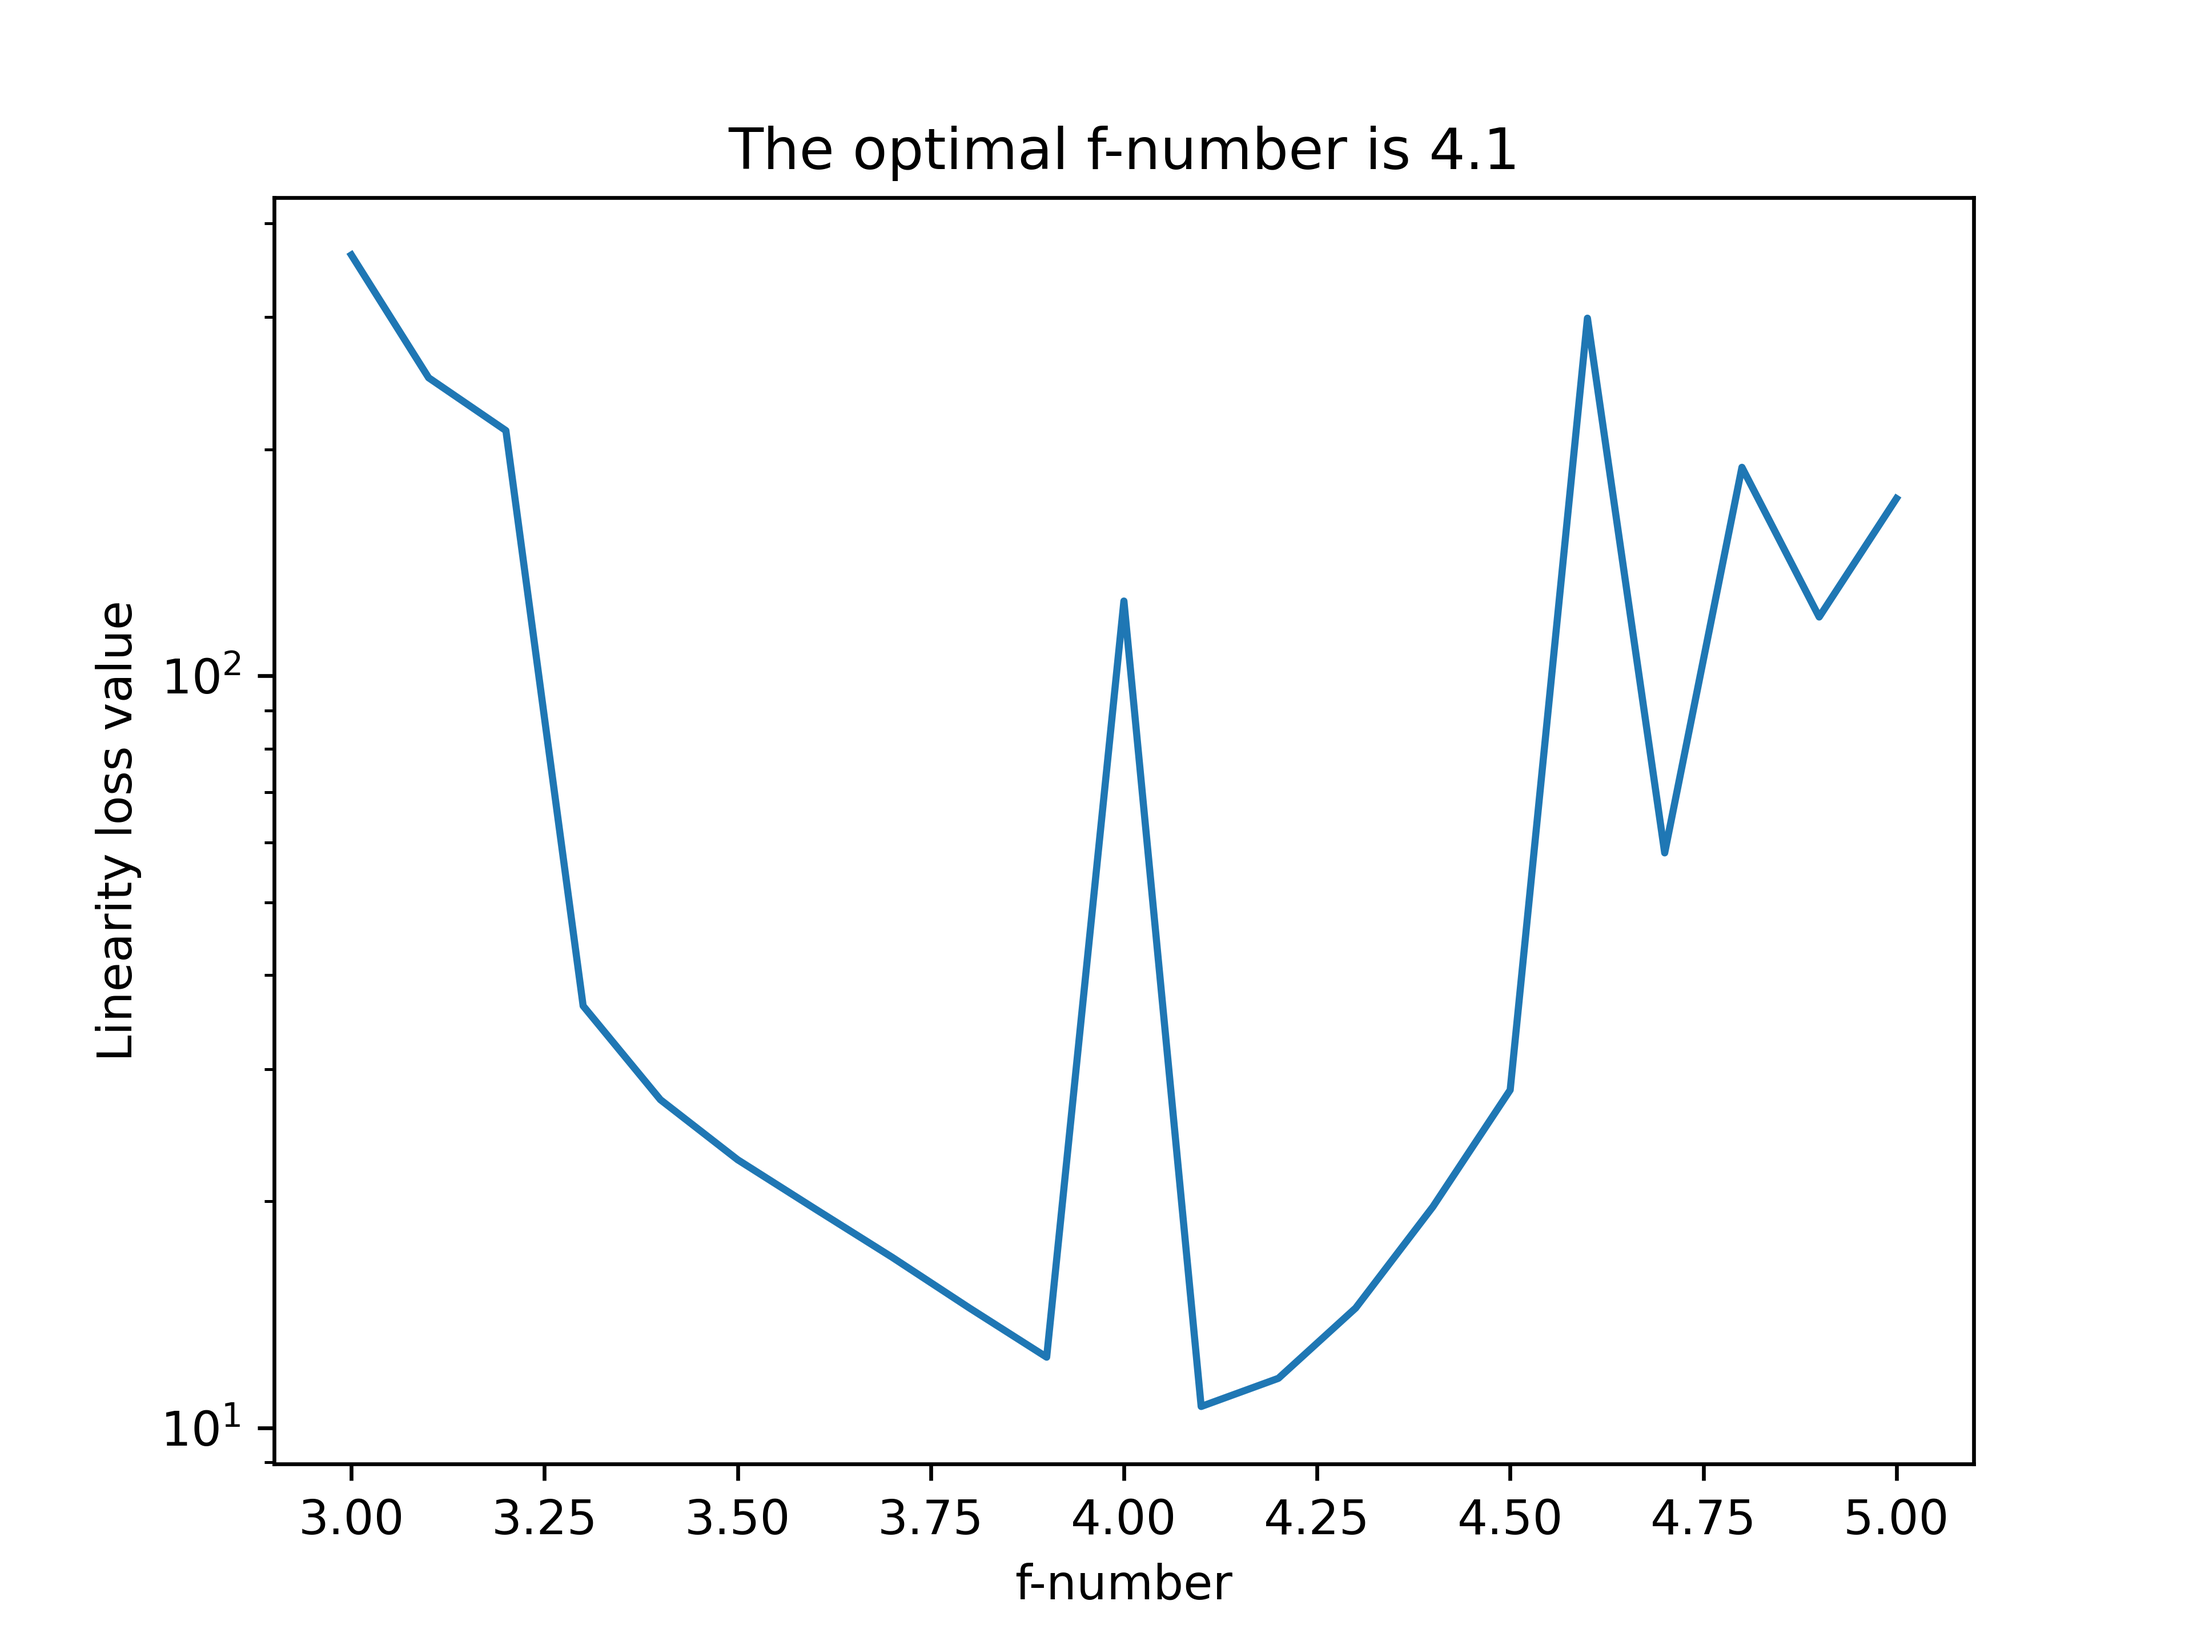
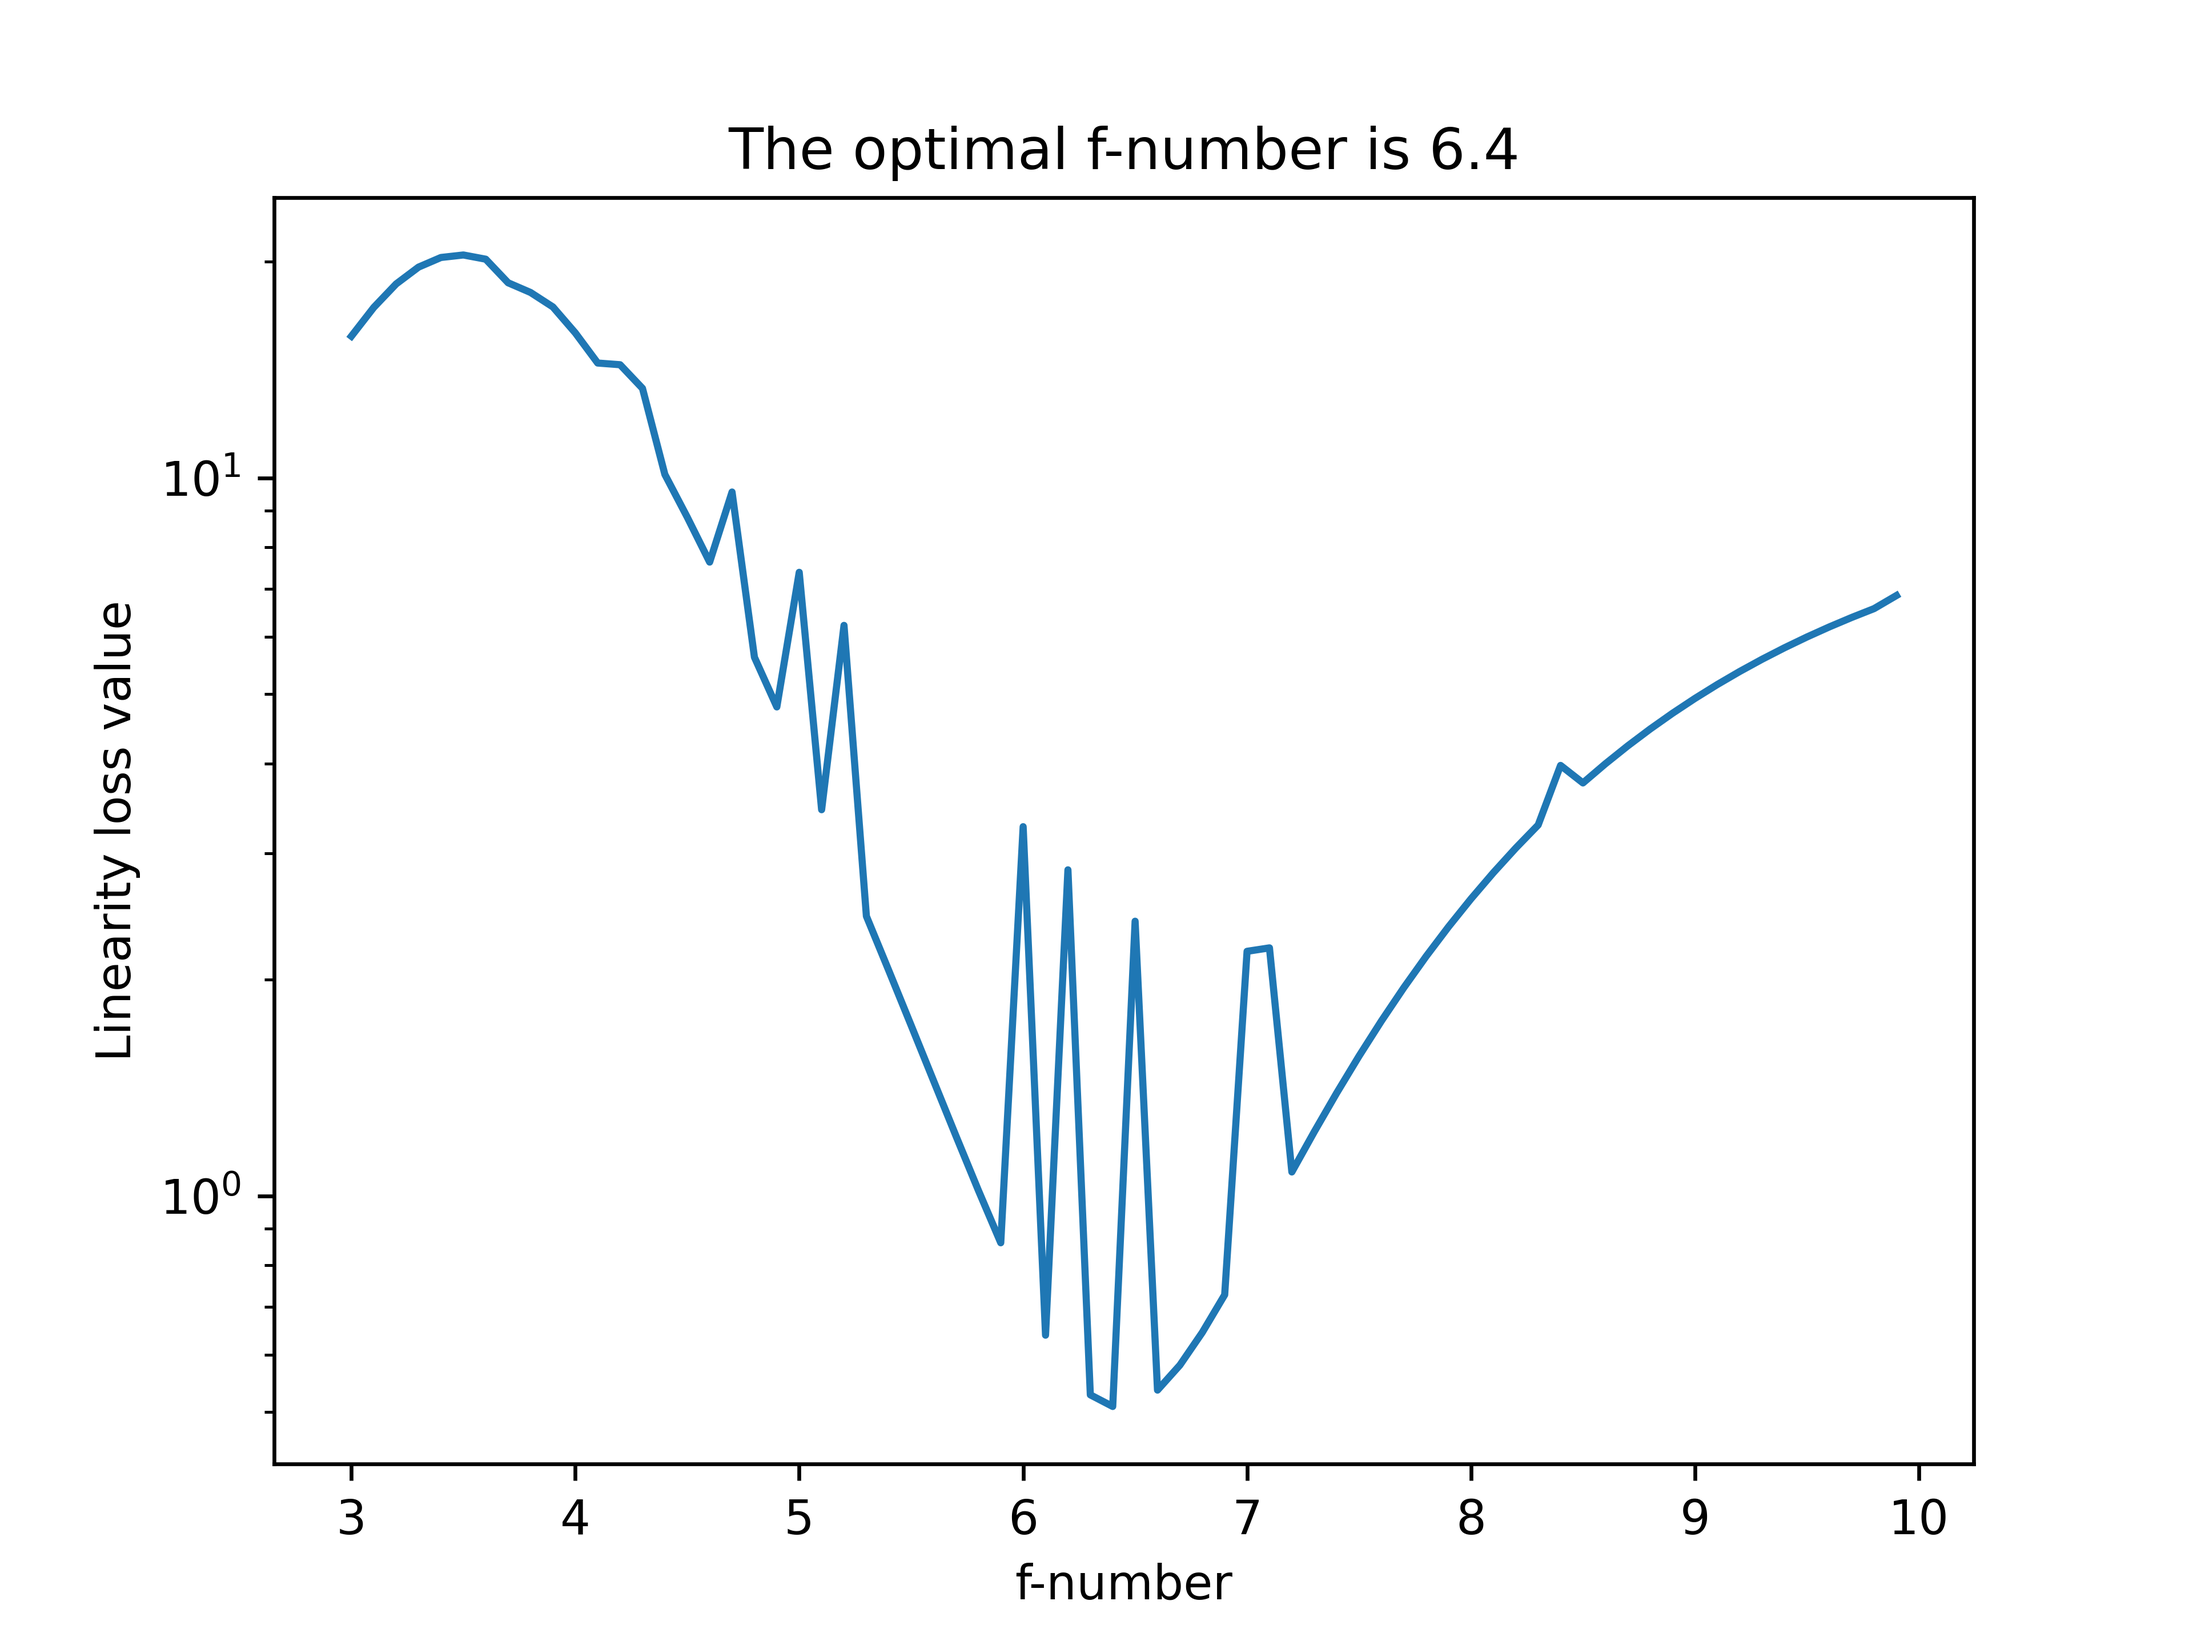
getting rid of the target/recovered fnumber plot

diff --git a/scripts_py/sim/fnumber_tests.py b/scripts_py/sim/fnumber_tests.py
@@ -1,22 +1,22 @@
 # %%
+from os.path import join
 import numpy as np
 from matplotlib import pyplot as plt
 from matplotlib import animation
 from IPython.display import HTML
 import hcipy as hc
 from hcipy import imshow_field
-from scipy.optimize import minimize
-from photonics.simulations.lantern_optics import LanternOptics
+from photonics import Optics, LanternOptics, make_command_matrix, imshow_psf
 from itertools import product, repeat
-from photonics import PROJECT_ROOT
+from photonics import PROJECT_ROOT, zernike_names
 from tqdm import tqdm
 # %%
-lo = LanternOptics(f_number=10)
+optics = Optics(lantern_fnumber=6.5)
+lo = LanternOptics(optics)
+nzern = lo.nmodes
 # %%
-lo.setup_hcipy(f_number=6.5)
-# %%
-lo.make_command_matrix(nzern=9)
-amplitudes, linearity_responses = lo.make_linearity(nzern=9, lim=1.0, step=0.05)
+make_command_matrix(optics.deformable_mirror, lo, optics.wf)
+amplitudes, linearity_responses = lo.make_linearity(optics, lim=1.0, step=0.05)
 # %%
 lo.show_linearity(amplitudes, linearity_responses)
 # %%
@@ -26,13 +26,13 @@ def linearity_loss(amplitudes, linearity_responses):
 
 # %%
 linearity_loss(amplitudes, linearity_responses)
+
 # %%
-def fnumber_objective(f, nzern=9):
-    print(f)
-    lo.setup_hcipy(f_number=f)
-    lo.make_intcmd(nzern=nzern)
-    loss = linearity_loss(*lo.make_linearity(nzern=nzern, lim=0.5, step=0.1))
-    print(loss)
+def fnumber_objective(f):
+    optics = Optics(lantern_fnumber=f)
+    lo.focal_propagator = optics.focal_propagator
+    make_command_matrix(optics.deformable_mirror, lo, optics.wf)
+    loss = linearity_loss(*lo.make_linearity(optics, lim=0.5, step=0.1))
     return loss
 # %%
 def norm(a, b):
@@ -43,8 +43,9 @@ def corr(a, b):
 f_to_test = np.arange(0.1, 20.1, 0.1)
 corrs = []
 for f in tqdm(f_to_test):
-    lo.setup_hcipy(f_number=f)
-    psf_on_input = np.array(lo.focal_wf_ref.electric_field.shaped[lo.input_footprint])
+    optics = Optics(lantern_fnumber=f)
+    lo.focal_propagator = optics.focal_propagator
+    psf_on_input = np.array(optics.im_ref.electric_field.shaped[lo.input_footprint])
     projected = lo.outputs.T @ (lo.projector @ psf_on_input)
     corrs.append(corr(psf_on_input, projected))
 
@@ -56,34 +57,36 @@ plt.gca().invert_yaxis()
 plt.yticks([1e0, 1e-1, 1e-2, 1e-3], [1-1e0, 1-1e-1, 1-1e-2, 1-1e-3])
 plt.xlabel("f-number")
 plt.ylabel("Coupling efficiency")
-plt.savefig(PROJECT_ROOT + "/figures/coupling_efficiency.png", dpi=600)
+plt.savefig(join(PROJECT_ROOT, "figures", "coupling_efficiency.png", dpi=600))
 
 # %%
-f_shortlist = np.arange(3, 5.1, 0.1)
+f_shortlist = np.arange(3.0, 10.0, 0.1)
 # %%
-linearity_arrays = []
-linearity_loss_vals = []
+linearity_arrays = {}
+linearity_loss_vals = {}
 # %%
-for f in f_shortlist:
-    print(f)
-    lo.setup_hcipy(f_number=f)
-    lo.make_intcmd(nzern=18)
-    amplitudes, linearity_arr = lo.make_linearity(nzern=18, lim=0.5, step=0.1)
-    linearity_arrays.append(linearity_arr)
-    linearity_loss_vals.append(linearity_loss(amplitudes, linearity_arr))
+for f in tqdm(f_shortlist):
+    optics = Optics(lantern_fnumber=f)
+    lo.focal_propagator = optics.focal_propagator
+    make_command_matrix(optics.deformable_mirror, lo, optics.wf)
+    amplitudes, linearity_arr = lo.make_linearity(optics, lim=0.5, step=0.1)
+    loss = linearity_loss(amplitudes, linearity_arr)
+    linearity_arrays[f] = linearity_arr
+    linearity_loss_vals[f] = linearity_loss(amplitudes, linearity_arr)
     
 # %%
-plt.semilogy(f_shortlist, linearity_loss_vals)
+linearity_losses_list = [v for (_, v) in sorted(linearity_loss_vals.items())]
+optimal_f = min(linearity_loss_vals, key=linearity_loss_vals.get)
+plt.semilogy(f_shortlist, linearity_losses_list)
 plt.xlabel("f-number")
 plt.ylabel("Linearity loss value")
-plt.title(f"The optimal f-number is {f_shortlist[np.argmin(linearity_loss_vals)]:.1f}")
-plt.savefig(PROJECT_ROOT + "/figures/optimal_f.png", dpi=600)
+plt.title(f"The optimal f-number is {optimal_f:.1f}")
+plt.savefig(join(PROJECT_ROOT, "figures", "optimal_f.png"), dpi=600)
 # %%
-nzern = 18 # linearity_arrays[0].shape[0]
-fig, axs = plt.subplots(int(np.ceil(nzern // 3)), 3, sharex=True, sharey=True, figsize=(9, 18))
+fig, axs = plt.subplots(int(np.ceil(nzern // 3)), 3, sharex=True, sharey=True, figsize=(9, 9))
 plt.suptitle("Photonic lantern linearity curves (rad)")
-linearity_arrays_cr = np.array(linearity_arrays)[np.argsort(f_shortlist)]
-f_to_test_cr = np.sort(f_shortlist)
+linearity_arrays_cr = [v for (_, v) in sorted(linearity_arrays.items())]
+f_to_test_cr = sorted(linearity_arrays.keys())
 def rescaled(x, s):
     return ((x - np.min(x)) / (np.max(x) - np.min(x))) * s + (1 - s) / 2
 
@@ -91,14 +94,13 @@ for i in range(nzern):
     r, c = i // 3, i % 3
     axs[r][c].set_prop_cycle(plt.cycler('color', plt.cm.magma(rescaled(f_to_test_cr, 0.6))))
     axs[r][c].set_ylim([min(amplitudes), max(amplitudes)])
-    axs[r][c].title.set_text(f"Z{i+1}")
+    axs[r][c].title.set_text(zernike_names[i])
     axs[r][c].plot(amplitudes, amplitudes, '--k')
     for (j,f) in enumerate(f_to_test_cr):
-        axs[r][c].plot(amplitudes, linearity_arrays_cr[j][i,:,i], label=(f"f={f:.1f}" if j % 1 == 0 else None))
+        axs[r][c].plot(amplitudes, linearity_arrays_cr[j][i,:,i], label=(f"f={f:.1f}" if j % 10 == 0 else None), alpha=0.4)
 plt.legend(bbox_to_anchor=(1.04, 0.8), loc="lower left")
-plt.savefig(PROJECT_ROOT + f"/figures/linearity_fsweep_z{nzern}_3_5.png", dpi=600)
+plt.savefig(join(PROJECT_ROOT, "figures", f"linearity_fsweep_z{nzern}_3_5.png"), dpi=600)
 plt.show()
-
 # %%
 def psf_entrance_scanning(f_number):
     lo.setup_hcipy(f_number=f_number)
@@ -153,4 +155,91 @@ for fv in [4, 6.5, 9]:
     lo.setup_hcipy(f_number=fv)
     linearity_array = linearity_arrays[idx]
     lo.show_linearity(amplitudes, linearity_array)
+# %%
+
+
+# %%
+fnumbers = np.arange(3.5, 12.1, 0.1)
+injected_idx = 4
+injected_amp = 0.5
+optics = Optics(lantern_fnumber=12.0)
+lantern_mask = np.array(np.ones_like(optics.im_ref.intensity.shaped)) * 1e-10
+lantern_mask[lo.input_footprint] = 1.0
+lo.focal_propagator = optics.focal_propagator
+optics.deformable_mirror.flatten()
+optics.deformable_mirror.actuators[injected_idx] = injected_amp * optics.wl / (4 * np.pi)
+injected_pupil = optics.deformable_mirror.forward(optics.wf)
+injected_psf = optics.focal_propagator(injected_pupil)
+recovered_zernikes = lo.command_matrix.dot(lo.readout(injected_pupil) - lo.image_ref)
+optics.deformable_mirror.actuators[:nzern] = recovered_zernikes
+recovered_pupil = optics.deformable_mirror.forward(optics.wf)
+recovered_psf = optics.focal_propagator(recovered_pupil)
+fig, axs = plt.subplots(2, 2, figsize=(15, 5))
+im0 = axs[0][0].imshow(
+    np.log10(injected_psf.intensity.shaped / np.max(injected_psf.intensity))[219:293, 219:293],
+    vmin=-4
+)
+axs[0][0].set_xticks([])
+axs[0][0].set_yticks([])
+axs[0][0].set_title("Injected PSF")
+injected_to_plot = np.log10((injected_psf.intensity.shaped * lantern_mask) / np.max(injected_psf.intensity))[219:293, 219:293]
+im1 = axs[0][1].imshow(
+    injected_to_plot,
+    vmin=-4
+)
+axs[0][1].set_xticks([])
+axs[0][1].set_yticks([])
+axs[0][1].set_title("What the lantern sees")
+recovered = recovered_zernikes[injected_idx] / (optics.wl / (4 * np.pi))
+crosstalk = recovered_zernikes[2] / (optics.wl / (4 * np.pi))
+im2 = axs[1][0].scatter(recovered, crosstalk)
+axs[2].scatter([injected_amp], [0], c='k')
+axs[2].annotate("Target", [injected_amp, 0.05])
+axs[2].set_xlabel("Injected mode")
+axs[2].set_ylabel("Crosstalk")
+axs[2].set_xlim([injected_amp - 0.3, injected_amp + 0.3])
+axs[2].set_ylim([-1.0, 1.0])
+def animate(t):
+    fig.suptitle(f"Reconstruction at f/{fnumbers[t]:.1f}")
+    optics = Optics(lantern_fnumber=fnumbers[t])
+    lo.focal_propagator = optics.focal_propagator
+    make_command_matrix(optics.deformable_mirror, lo, optics.wf)
+    optics.deformable_mirror.flatten()
+    optics.deformable_mirror.actuators[injected_idx] = injected_amp * optics.wl / (4 * np.pi)
+    injected_pupil = optics.deformable_mirror.forward(optics.wf)
+    injected_psf = optics.focal_propagator(injected_pupil)
+    recovered_zernikes = lo.command_matrix.dot(lo.readout(injected_pupil) - lo.image_ref)
+    optics.deformable_mirror.actuators[:nzern] = recovered_zernikes
+    recovered_pupil = optics.deformable_mirror.forward(optics.wf)
+    r = np.array(injected_psf.intensity.shaped)
+    central_idx = np.unravel_index(np.argmax(np.array(r)), r.shape)
+    imin_x, imax_x = central_idx[1] - 37, central_idx[1] + 37
+    imin_y, imax_y = central_idx[0] - 37, central_idx[0] + 37
+    cropped_grid = np.indices((imax_y - imin_y, imax_x - imin_x))
+    cropped_cen_y, cropped_cen_x = (imax_y - imin_y) // 2, (imax_x - imin_x) // 2
+    lantern_aperture = np.zeros((imax_y - imin_y, imax_x - imin_x))
+    lantern_aperture[(cropped_grid[0] - cropped_cen_y) ** 2 + (cropped_grid[1] - cropped_cen_x) ** 2 <= (cropped_cen_y - 20) ** 2] = 1.0
+    im0.set_data(np.log10(injected_psf.intensity.shaped / np.max(injected_psf.intensity))[imin_y:imax_y, imin_x:imax_x])
+    injected_to_plot = np.log10((injected_psf.intensity.shaped) / np.max(injected_psf.intensity))[imin_y:imax_y, imin_y:imax_y]
+    injected_to_plot[np.where(lantern_aperture == 0.0)] = np.min(injected_to_plot)
+    im1.set_data(injected_to_plot)
+    recovered = recovered_zernikes[injected_idx] / (optics.wl / (4 * np.pi))
+    crosstalk = recovered_zernikes[2] / (optics.wl / (4 * np.pi))
+    axs[2].clear()
+    axs[2].scatter(recovered, crosstalk)
+    axs[2].scatter([0.5], [0], c='k')
+    axs[2].annotate("Target", [0.5, 0.01])
+    axs[2].annotate("Recovered", [recovered + 0.01, crosstalk + 0.01])
+    axs[2].set_xlabel("Injected mode (rad)")
+    axs[2].set_ylabel("Crosstalk (rad)")
+    axs[2].set_xlim([injected_amp - 0.3, injected_amp + 0.3])
+    axs[2].set_ylim([-0.25, 0.25])
+# %%
+anim = animation.FuncAnimation(fig, animate, np.arange(len(fnumbers)))
+# %%
+HTML(anim.to_jshtml(default_mode='loop'))
+
+
+# %%
+anim.save(join(PROJECT_ROOT, "figures", "fnumber_zooming.mp4"), dpi=1000)
 # %%

diff --git a/scripts_py/sim/secondstage_split.py b/scripts_py/sim/secondstage_split.py
@@ -15,13 +15,13 @@ from photonics import Optics, PyramidOptics, LanternOptics, correction
 # %%
 n_filter = 9
 f_cutoff = 30
-f_loop = 100
+f_loop = 800
 dt = 1/f_loop
 optics = Optics(lantern_fnumber=6.5, dm_basis="modal")
 pyramid = PyramidOptics(optics)
 lantern = LanternOptics(optics)
-optics.turbulence_setup(fried_parameter=0.5, seed=10)
-corr = partial(correction, optics=optics, pyramid=pyramid, lantern=lantern)
+optics.turbulence_setup(fried_parameter=0.1, seed=10)
+corr = partial(correction, optics=optics, pyramid=pyramid, lantern=lantern, f_loop=f_loop)
 focus_ncpa = optics.zernike_to_pupil(2, 0.3)
 # %%
 open_loop = corr(use_lantern=False, use_pyramid=False, ncpa=focus_ncpa)

diff --git a/photonics/simulations/pyramid_optics.py b/photonics/simulations/pyramid_optics.py
@@ -14,7 +14,7 @@ class PyramidOptics:
         pwfs = hc.PyramidWavefrontSensorOptics(optics.pupil_grid, pwfs_grid, separation=optics.telescope_diameter, wavelength_0=optics.wl)
         self.mpwfs = hc.ModulatedPyramidWavefrontSensorOptics(pwfs,modradius,self.modsteps)
         self.wfs_camera = hc.NoiselessDetector(pwfs_grid)
-        make_command_matrix(optics, self, optics.wf, dm_basis=optics.dm_basis)
+        make_command_matrix(optics.deformable_mirror, self, optics.wf, dm_basis=optics.dm_basis)
 
     def readout(self, wf):
         wf_mpwfs = self.mpwfs(wf)

diff --git a/photonics/utils.py b/photonics/utils.py
@@ -55,8 +55,8 @@ def nanify(phase_screen, aperture):
     x[np.where(aperture == 0)] = np.nan
     return Field(x, phase_screen.grid)
 
-def imshow_psf(f: Field):
-    imshow_field(np.log10(f), vmin=-5)
+def imshow_psf(f: Field, **kwargs):
+    imshow_field(np.log10(f / np.max(f)), **kwargs)
 
 def peak_to_valley(x):
     return np.max(x) - np.min(x)

diff --git a/photonics/simulations/command_matrix.py b/photonics/simulations/command_matrix.py
@@ -10,7 +10,7 @@ def make_command_matrix(
     flat_wavefront: hc.Wavefront,
     probe_amp=1e-10,
     dm_basis="modal",
-    rerun=False
+    rerun=True
 ):
     """
     Make a command matrix for a DM-WFS pair and assigns it to wfs.command_matrix
